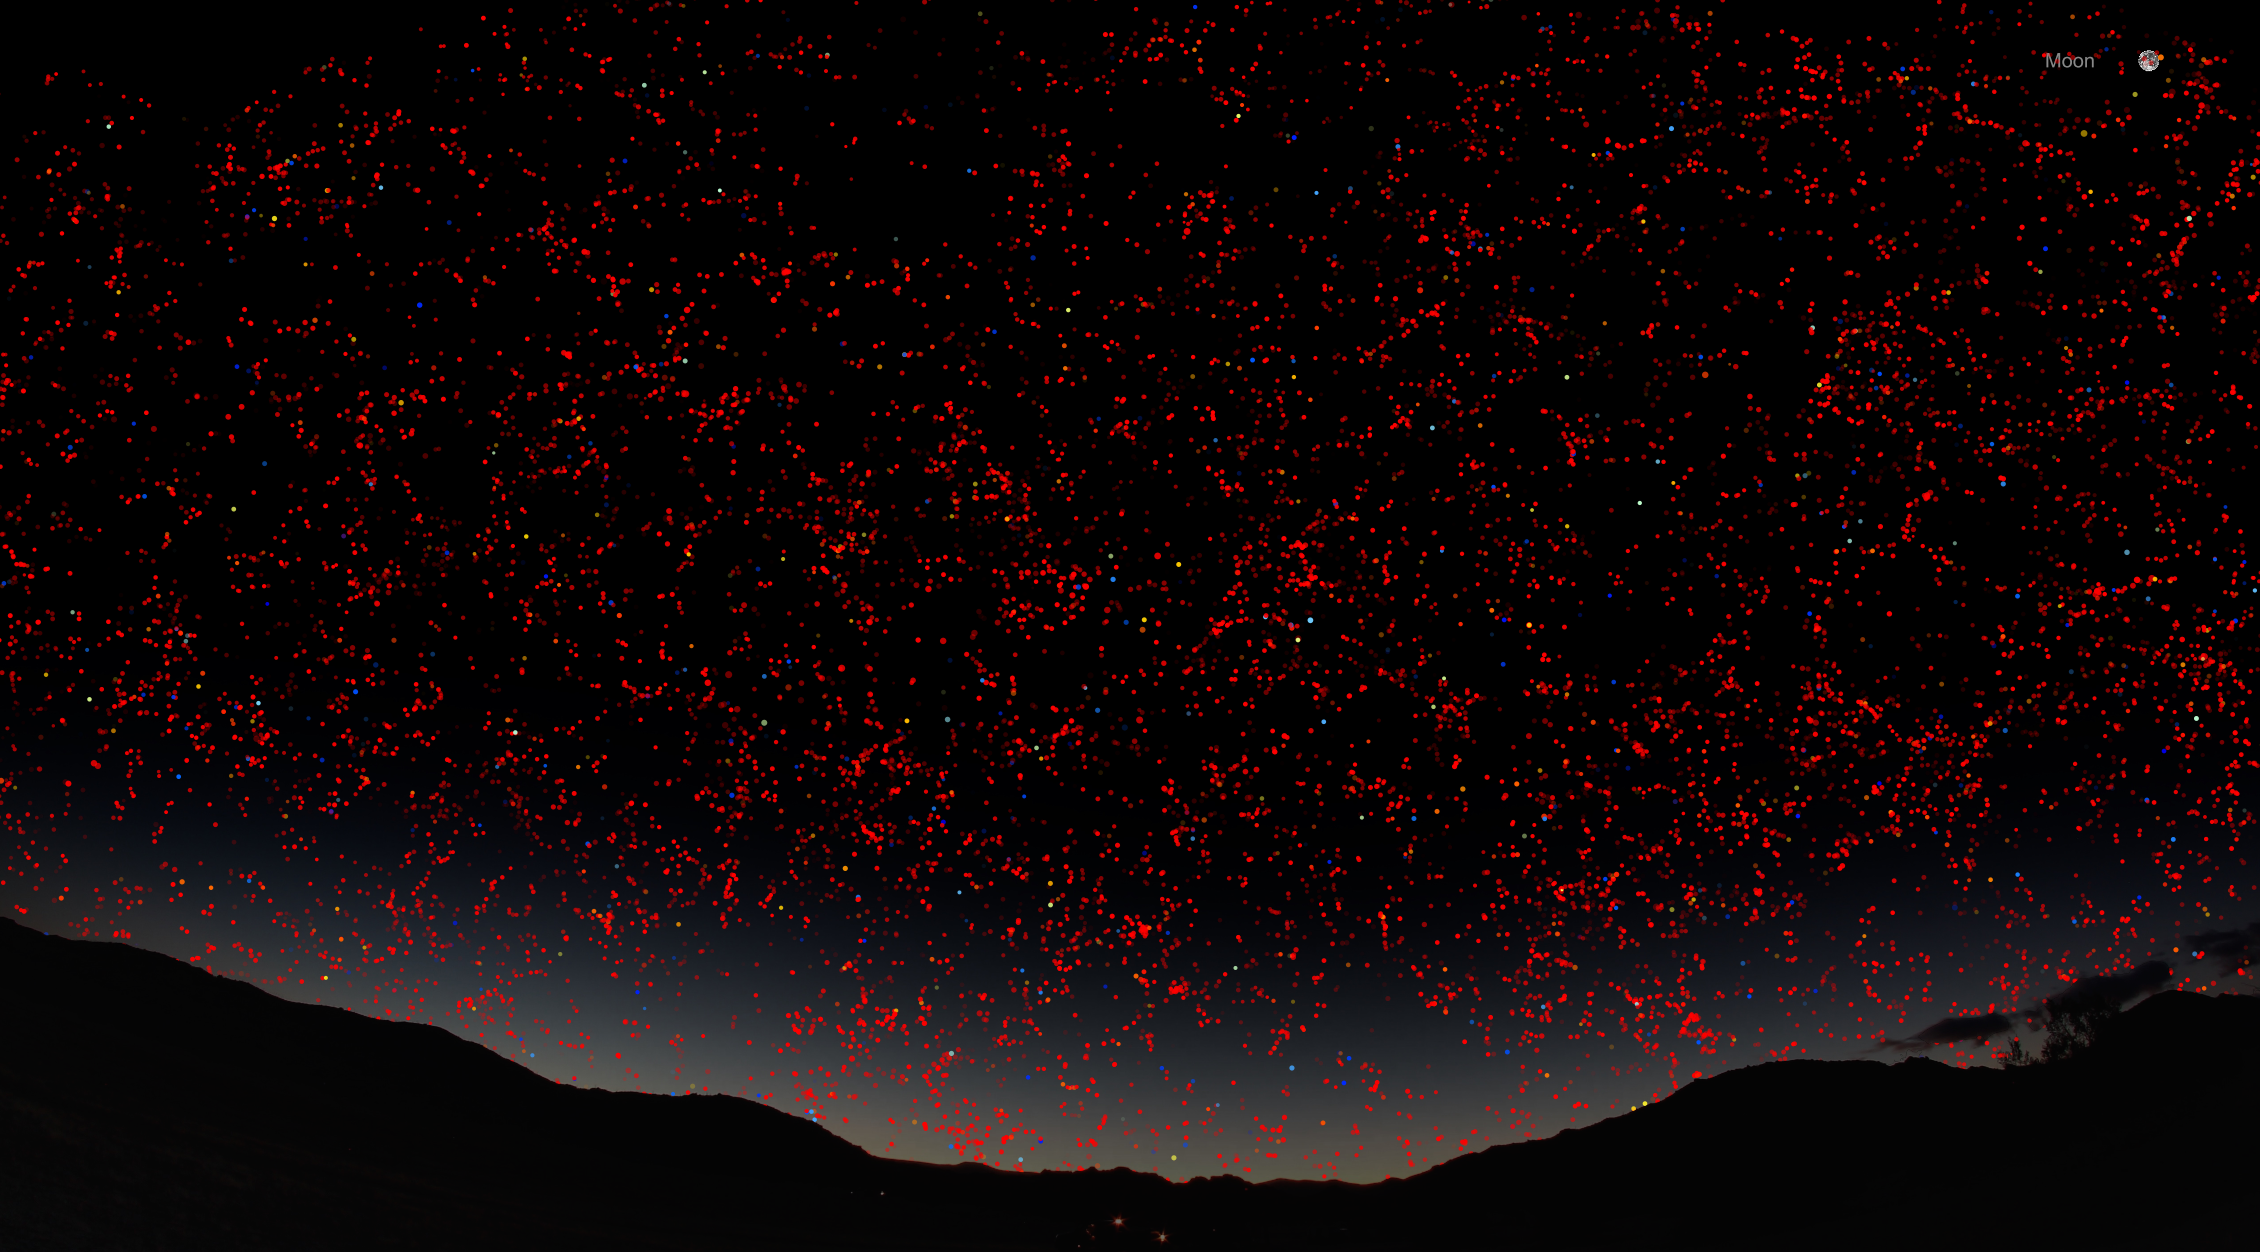
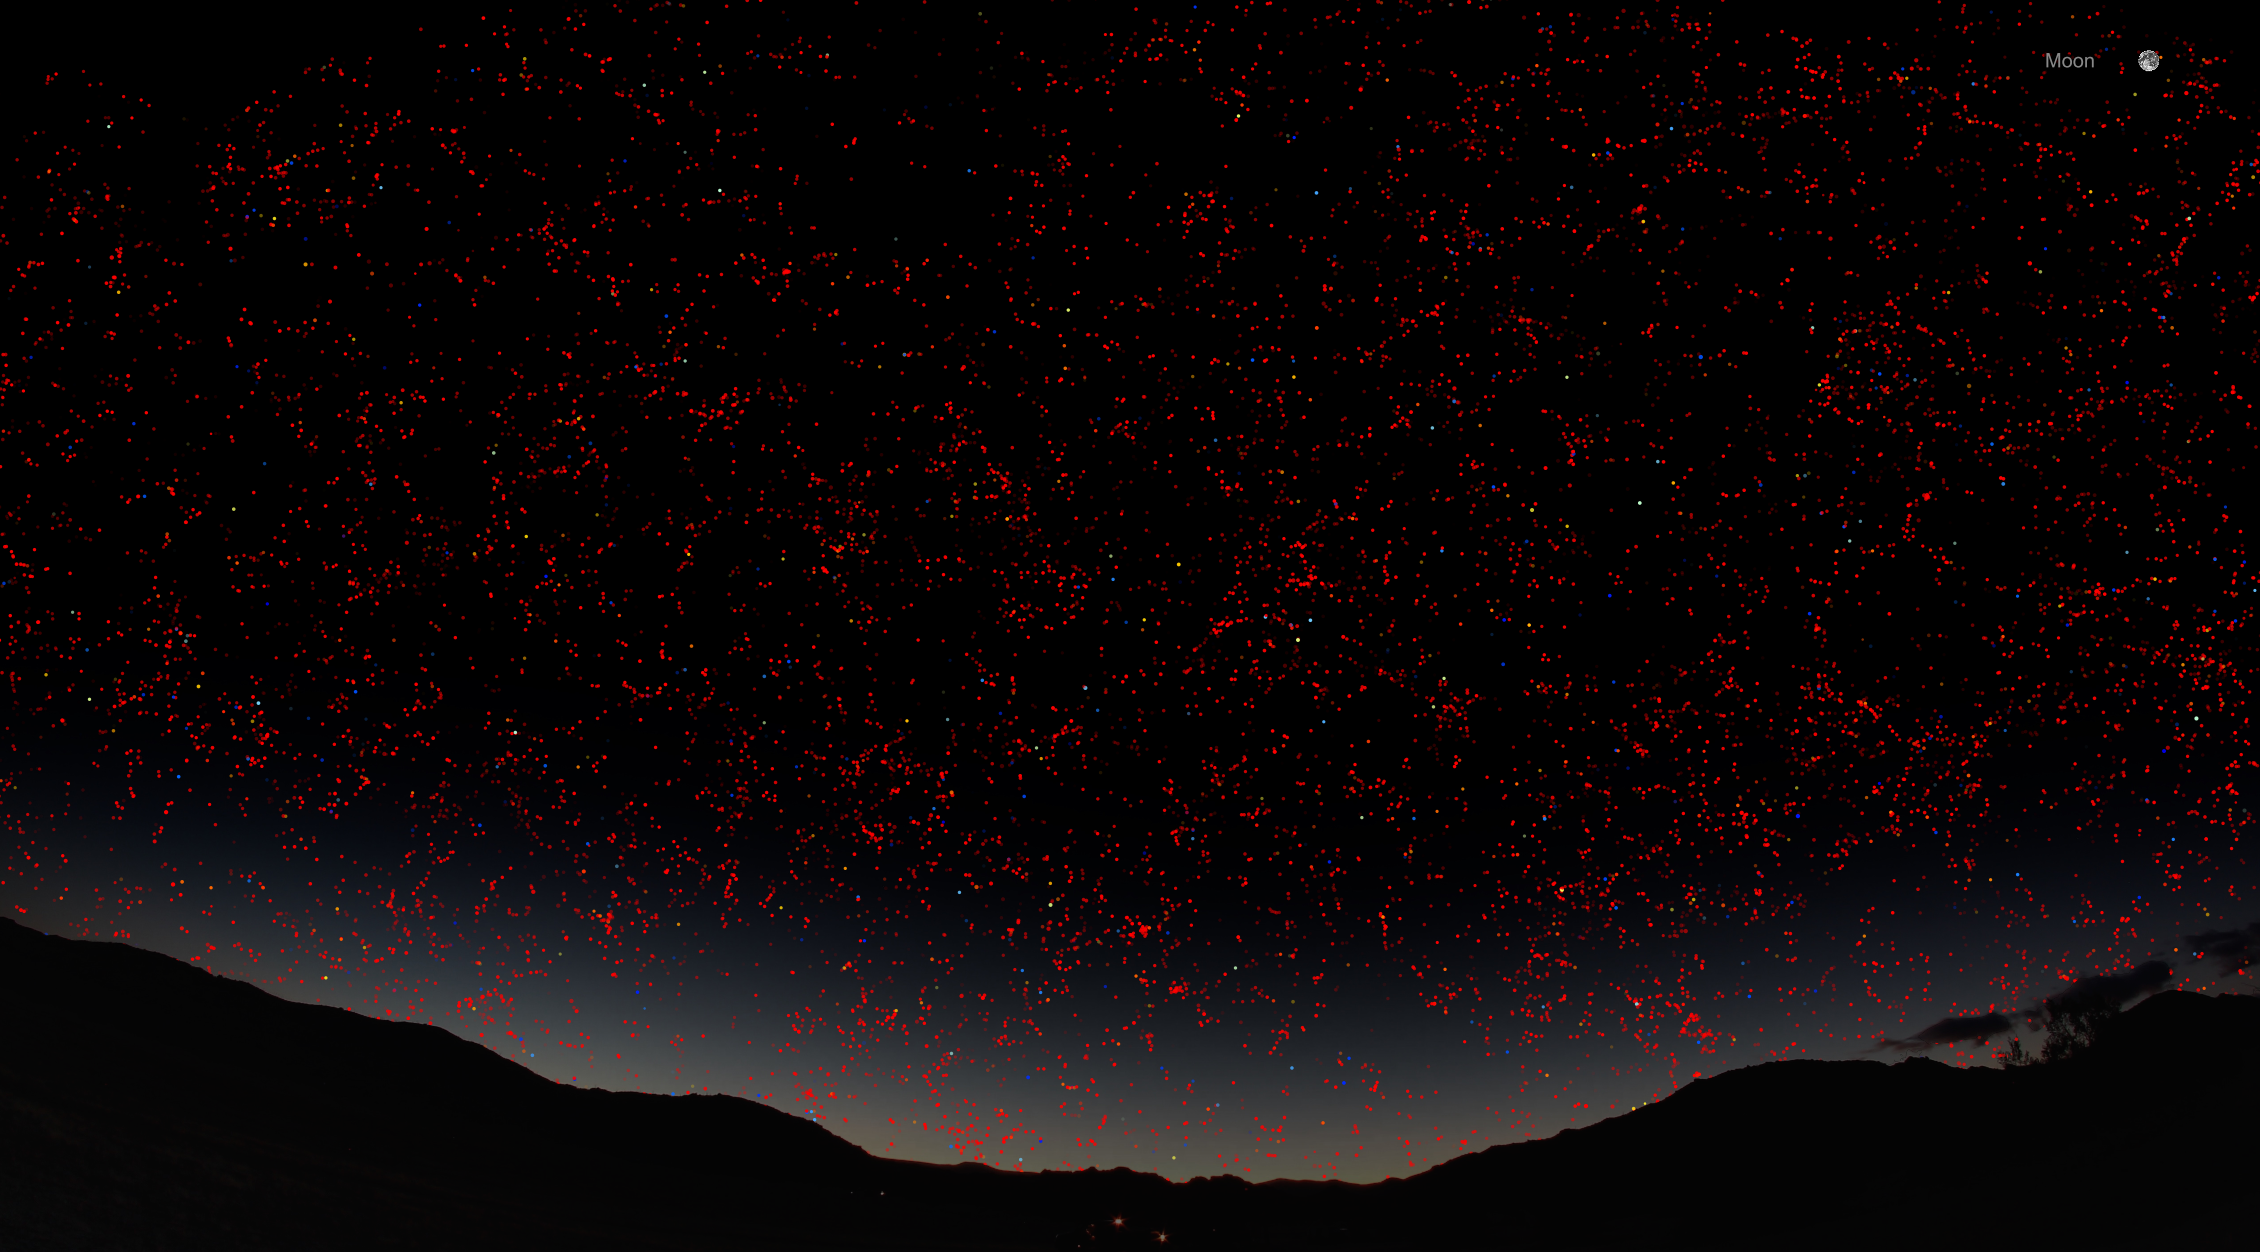
update cone

diff --git a/structura/index.html b/structura/index.html
@@ -237,19 +237,24 @@
 <div class='container'>
     <div class='row'>
         <div class='col-xs-12 col-sm-7'>
-            <a href=""><img class='coneimg' src="img/SDSS_cone_text.png"></a>
+            
+            <a id='conebox' href="img/SDSS_cone_notext.png" title='Rather than looking at a universe as individual pages of a book, this visualizes a thin slice of the universe from the big bang (top) to today (bottom) where each semi-circular ring shows a different age of the universe'>
+                <img class='coneimg' src='img/SDSS_cone_text.png'>
+                <!-- src="img/SDSS_cone_text.png" -->
+            </a>
+
+            
             <!-- <div class='infocaption'><p>test</p></div> -->
         </div>
         <div class='infolinks col-xs-12 col-sm-5'>
             <h1> More Information </h1>
-            <p></p>
             <ul class='col-xs-10 col-md-12'>
                 <li class="infoheader">
                     <h3>Did you enjoy this journey?</h3>
                     <p>Support exploring the structure of the universe...</p>
                     <ul class="infoexpand">
                         <li>Want to see more visualization?</li>
-                        <ul><li><a href=''>Buy us a coffee so we can work harder.</a></li></ul>
+                        <ul><li><a href='https://www.patreon.com/bePatron?patAmt=3.50&u=2831865'>Buy us a coffee so we can work harder.</a></li></ul>
                         <li>Interested in giving more:</li>
                         <ul><li>
                             Generous donations are vital to the future of education and research.
@@ -264,8 +269,11 @@
                     <h3>Use This Movie</h3>
                     <p>Want to use this movie in a classroom, presentation, or planetarium...</p>
                     <ul class="infoexpand">
-                        <li>Education & Presentations:</li>
-                        <ul><li><a href="temp.keynote">Slides</a>, <a href="https://youtube.com">youTube</a></li></ul>
+                        <li>Education &amp; Presentations:</li>
+                        <ul><li>
+                            <a href="temp.keynote">Slides</a>, 
+                            <a href="https://www.youtube.com/watch?v=jSe6GOmkq_c">youTube</a>
+                        </li></ul>
                         <li>Planetariums: Please email us at:</li>
                         <ul><li> <a href='mailto:ajmendez@jhu.edu'>ajmendez@jhu.edu</a></li></ul>
                     </ul>
@@ -277,10 +285,10 @@
                     <ul class="infoexpand">
                         <li><a href='//ajmendez.github.io'>Dr. Alexander Mendez</a></li>
                         <li><a href='//www.pha.jhu.edu/~menard/'>Professor Brice Menard</a></li>
-                        <li><a href='//sdss.org'><img src='img/sdss.png' alt='SDSS Logo'/>
+                        <li><a href='//www.sdss.org'><img src='img/sdss.png' alt='SDSS Logo'/>
                             <!-- <br />SDSS: Spectroscopic Galaxies and Quasars -->
                         </a></li>
-                        <li><a href='//pl'><img src='img/planck.png' alt='PLANCK logo' />
+                        <li><a href='//www.esa.int/Our_Activities/Space_Science/Planck/Planck_and_the_cosmic_microwave_background'><img src='img/planck.png' alt='PLANCK logo' />
                             <!-- <br />PLANCK: Cosmic Microwave Background Image -->
                         </a></li>
                         <li><a href='//www.jhu.edu'><img src='img/jhu.png' />
@@ -288,7 +296,8 @@
                         </a></li>
                     </ul>
                 </li>
-                
+                <p class='bglink'><a id='conebox' href='img/SDSS_cone_notext.png' title='Rather than looking at a universe as individual pages of a book, this visualizes a thin slice of the universe from the big bang (top) to today (bottom) where each semi-circular ring shows a different age of the universe'>
+                    Click here to learn more about the background image...</a></p>
             </ul>
         </div>
     </div>

diff --git a/structura/css/style.css b/structura/css/style.css
@@ -318,17 +318,20 @@ footer{
 /*    position: relative;*/
 /*    padding-bottom: 79.82%;*/
 /*    height: calc(100% - 60px);*/
-    max-width:100%;
-    max-height:100%;
+/*    max-width:100%;*/
+/*    max-height:100%;*/
+/*    max-width:100vh;*/
+/*    max-height:100vw;*/
+    
 }
 .image-wrapper img {
     display: block;
     margin: 0 auto;
-    padding-top:50px;
-    height: 100vh;
+    padding-top:100px;
+    height: auto;
+    width: 100%;
     
 }
-
 
 
 
@@ -431,15 +434,28 @@ footer{
     list-style-type: square;
 }
 
-    
-    
+ 
 .coneimg {
     position: absolute;
     left: -60%;
     width: 160%;
-    
+    content: url('../img/SDSS_cone_notext.png');
 }
-    
+
+.bglink {
+    opacity: 0.7;
+    font-weight: 100;
+    font-size: 12px; 
+}
+@media screen and (min-width: 750px) {
+    .bglink {
+        display: none;
+    }
+    .coneimg {
+        content: url('../img/SDSS_cone_text.png');
+    }
+}
+
     
 
 .infolinks {

diff --git a/structura/js/simple3.js b/structura/js/simple3.js
@@ -42,20 +42,15 @@
     errorMessage: 'The requested content cannot be loaded. Please try again later.',
     videoAutoplay: true,
     });
-	$('#cone').nivoLightbox({
+    
+    
+    
+	$('#conebox').nivoLightbox({
     effect: 'fadeScale',
     theme: 'default',
     keyboardNav: true,
     clickOverlayToClose: true,
-    beforeShowLightbox: function(){
-        try {
-            pJSDom[0].pJS.particles.move.enable = false;
-        } catch (ignore) {
-        };
-        
-    },
     errorMessage: 'The requested content cannot be loaded. Please try again later.',
-    videoAutoplay: true,
     });
     
     

diff --git a/structura/css/nivo-lightbox.css b/structura/css/nivo-lightbox.css
@@ -42,8 +42,8 @@
 	left: 0;
 	width: 100%;
 	z-index: 99999;
-/*    text-align: center;*/
-    text-align:justified;
+    text-align: center;
+/*    text-align:justified;*/
 }
 .nivo-lightbox-nav { display: none; }
 .nivo-lightbox-prev {
